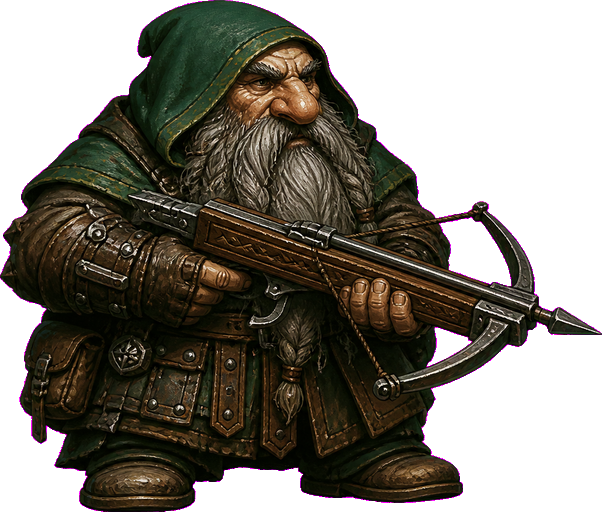
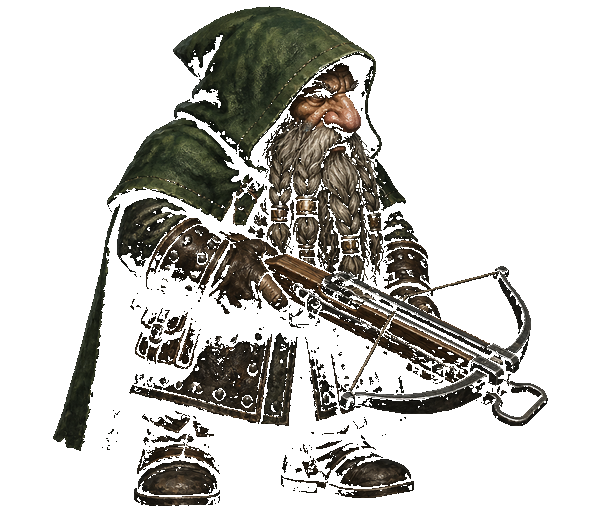
Bind Limner-signed title-law Fendur idle (ASSET_VER 83).
Green hood, grey beard, crossbow. Walk/atk unchanged.

diff --git a/src/ui/Ch1RubbleLoad.test.js b/src/ui/Ch1RubbleLoad.test.js
@@ -45,7 +45,7 @@ assert(!/else if\(okTex\)\{/.test(html),
   'generated TEX diamonds are not a first-frame floor/wall fallback');
 assert(/tile_floor_mine\.png\?v=60/.test(html) && /tile_wall_worked\.png\?v=60/.test(html),
   'mine floor and worked wall are preloaded before first present');
-assert(/ASSET_VER='82'/.test(html), 'asset cache-bust matches punched living-Macar sheets');
+assert(/ASSET_VER='83'/.test(html), 'asset cache-bust matches punched living-Macar sheets');
 assert(/function scatterBurialRubble\(/.test(html) && /fallen:1/.test(html) && /k:'dust'/.test(html),
   'cave-in entry scatters extra timber, stone, and dust around the burial');
 assert(/function drawFallenBeam\(/.test(html) && /function drawFloorDust\(/.test(html),

diff --git a/src/combat/ElvenkindBoots.test.js b/src/combat/ElvenkindBoots.test.js
@@ -23,7 +23,7 @@ function extractFn(name){
   return m[0];
 }
 
-assert(/ASSET_VER='82'/.test(html), 'ASSET_VER is unchanged');
+assert(/ASSET_VER='83'/.test(html), 'ASSET_VER is unchanged');
 assert(/function wornMoveMul\(/.test(html) && /function moveStep\(/.test(html),
   'wornMoveMul and moveStep exist (extract of move())');
 assert(/function wearingElvenkind\(/.test(html), 'shared wearingElvenkind helper exists');

diff --git a/src/combat/UseMagicItem.test.js b/src/combat/UseMagicItem.test.js
@@ -48,7 +48,7 @@ assert(/nocked|stays packed/.test(useFn), 'plus-shot ammo use is still nock/read
 assert(/EquipmentSlots\.isEquippable\(it\)/.test(useFn),
   'wearable misc (Displacement) dons through isEquippable before the generic buff+heal');
 
-assert(/ASSET_VER='82'/.test(html), 'ASSET_VER is unchanged');
+assert(/ASSET_VER='83'/.test(html), 'ASSET_VER is unchanged');
 
 const ctx={
   G:{equipped:{}},

diff --git a/index.html b/index.html
@@ -348,7 +348,7 @@ const FONT_QUOTE='"Cormorant Garamond",Palatino,Georgia,serif';
 
 /* ---------------------------- painted sprites (Baldur's Gate isometric) ---------------------------- */
 const SPR={};
-const ASSET_VER='82';
+const ASSET_VER='83';
 let SPLASH_STATE='loading';
 function assetUrl(src){
   const u=src+(src.indexOf('?')>=0?'&':'?')+'v='+ASSET_VER;

diff --git a/src/combat/LeftoverMagic.test.js b/src/combat/LeftoverMagic.test.js
@@ -26,7 +26,7 @@ function extractFn(name){
   return m[0];
 }
 
-assert(/ASSET_VER='82'/.test(html), 'ASSET_VER is unchanged');
+assert(/ASSET_VER='83'/.test(html), 'ASSET_VER is unchanged');
 assert(!/id:'vorpal'|id:'bag_of_holding'|id:'arrow_of_slaying'|id:'javelin_of_lightning'/.test(html),
   'no invented leftover-magic item ids');
 
